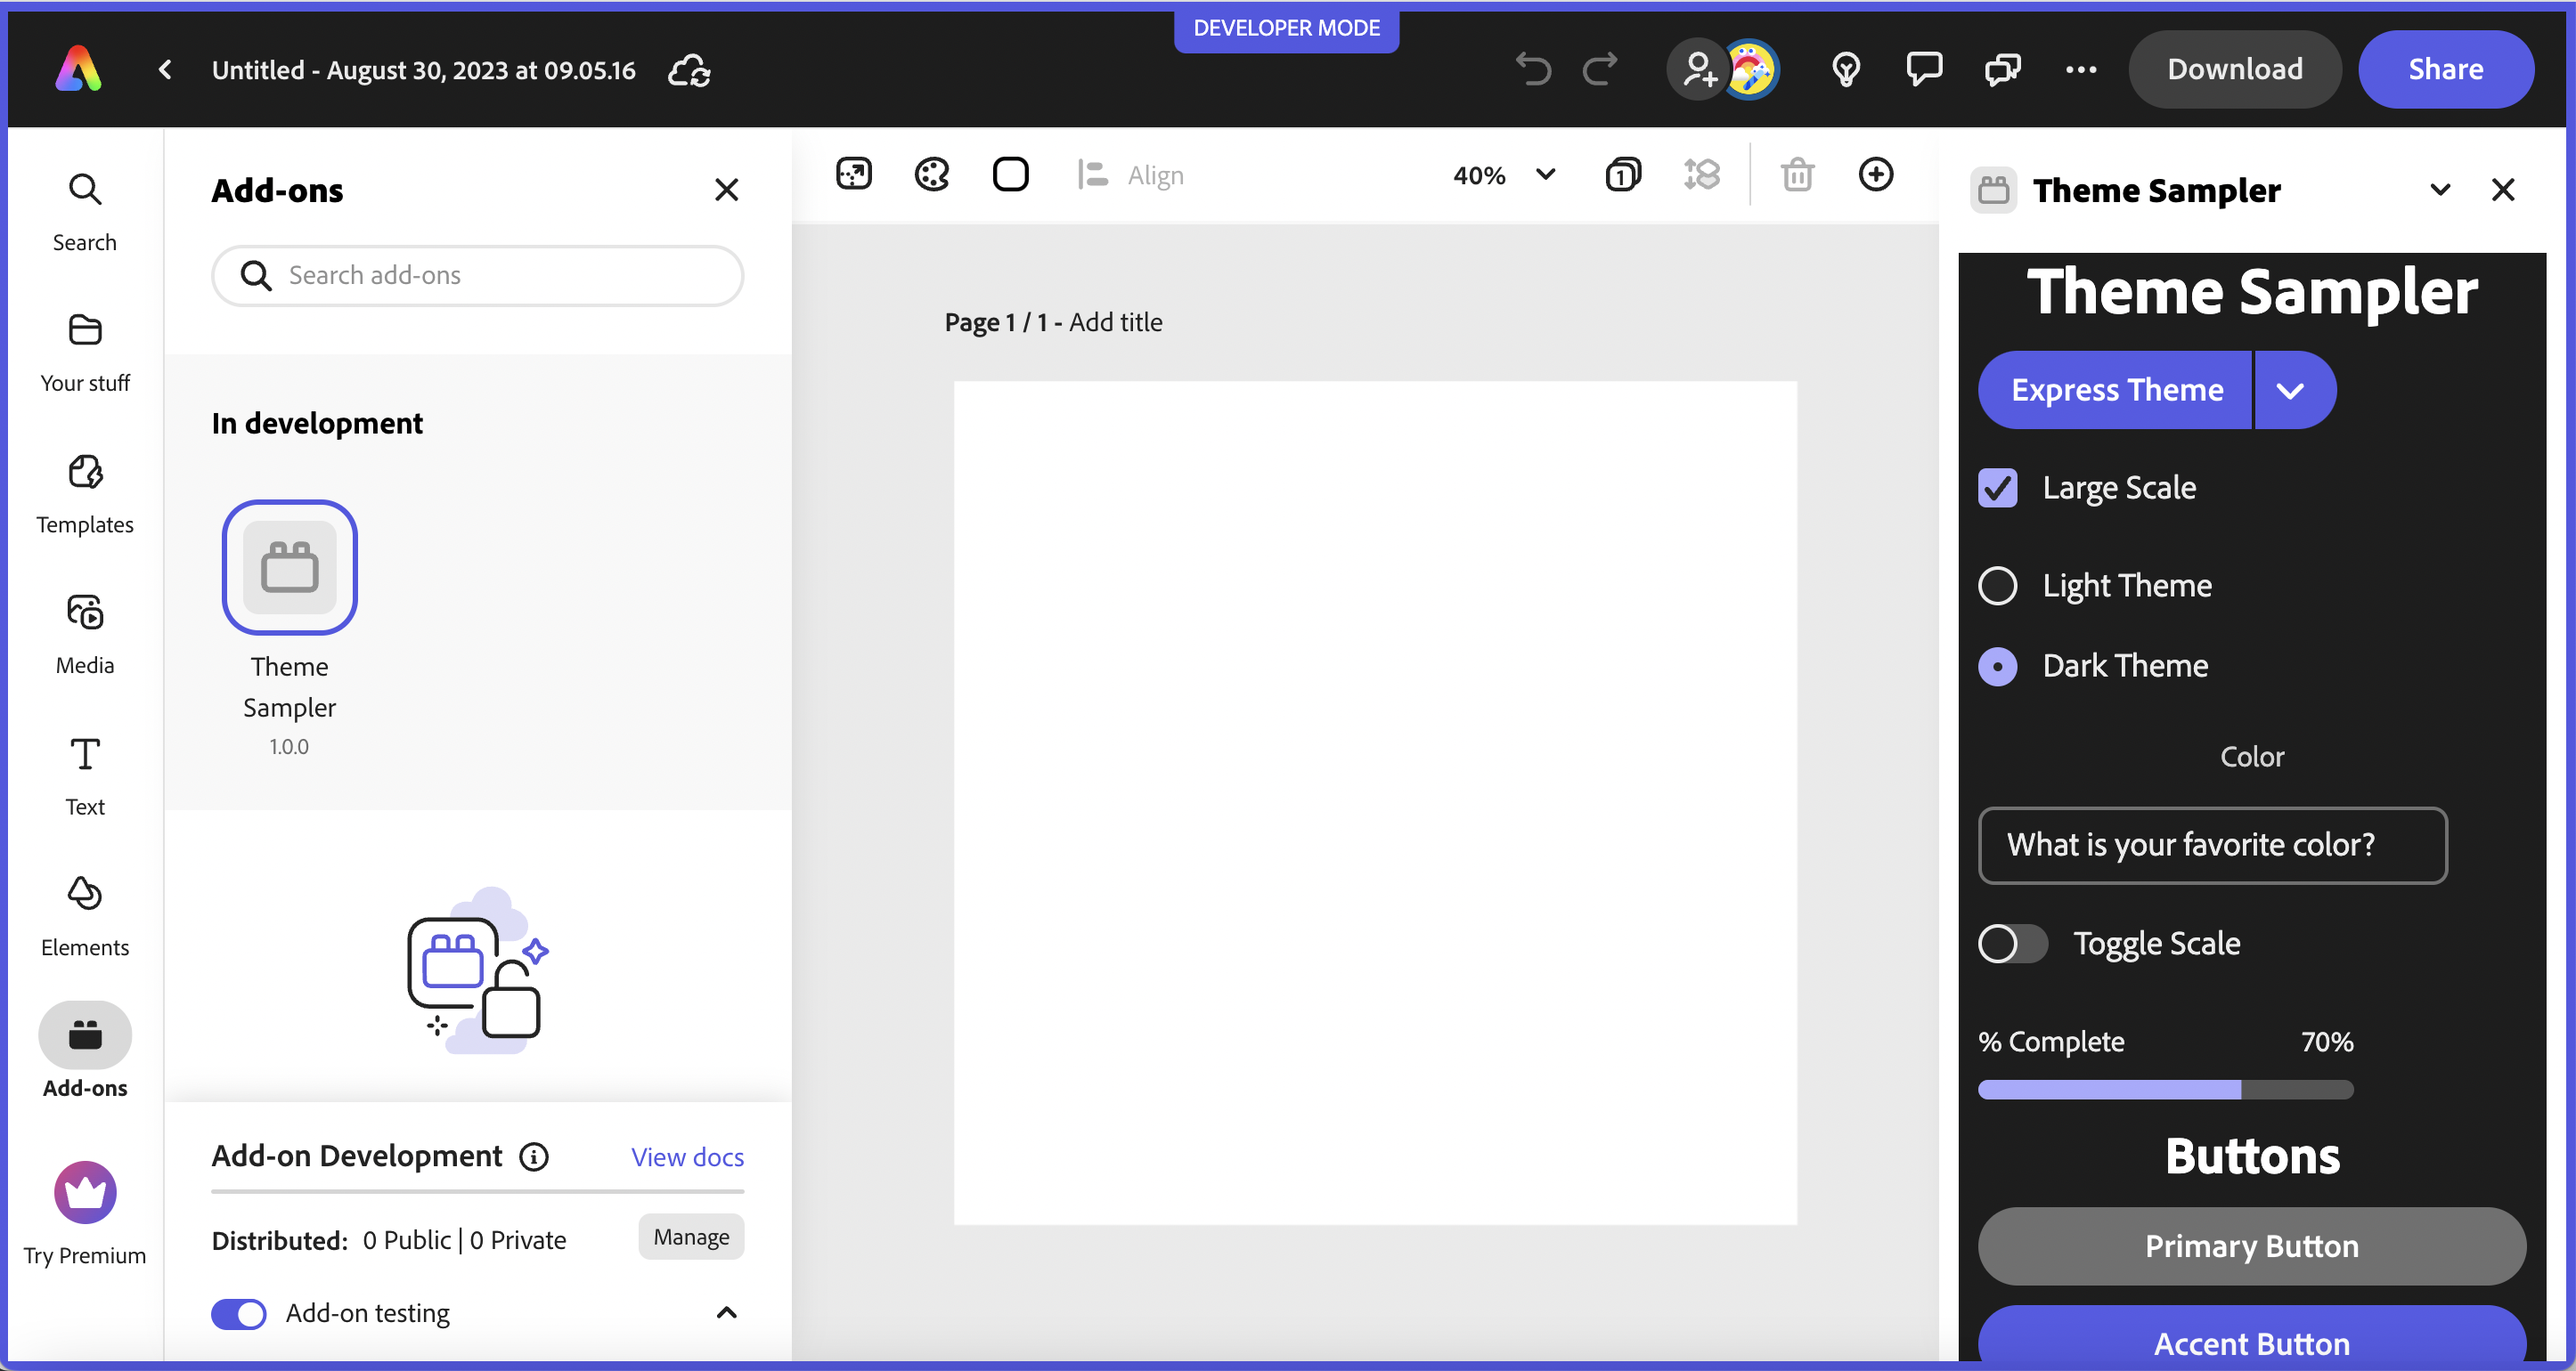
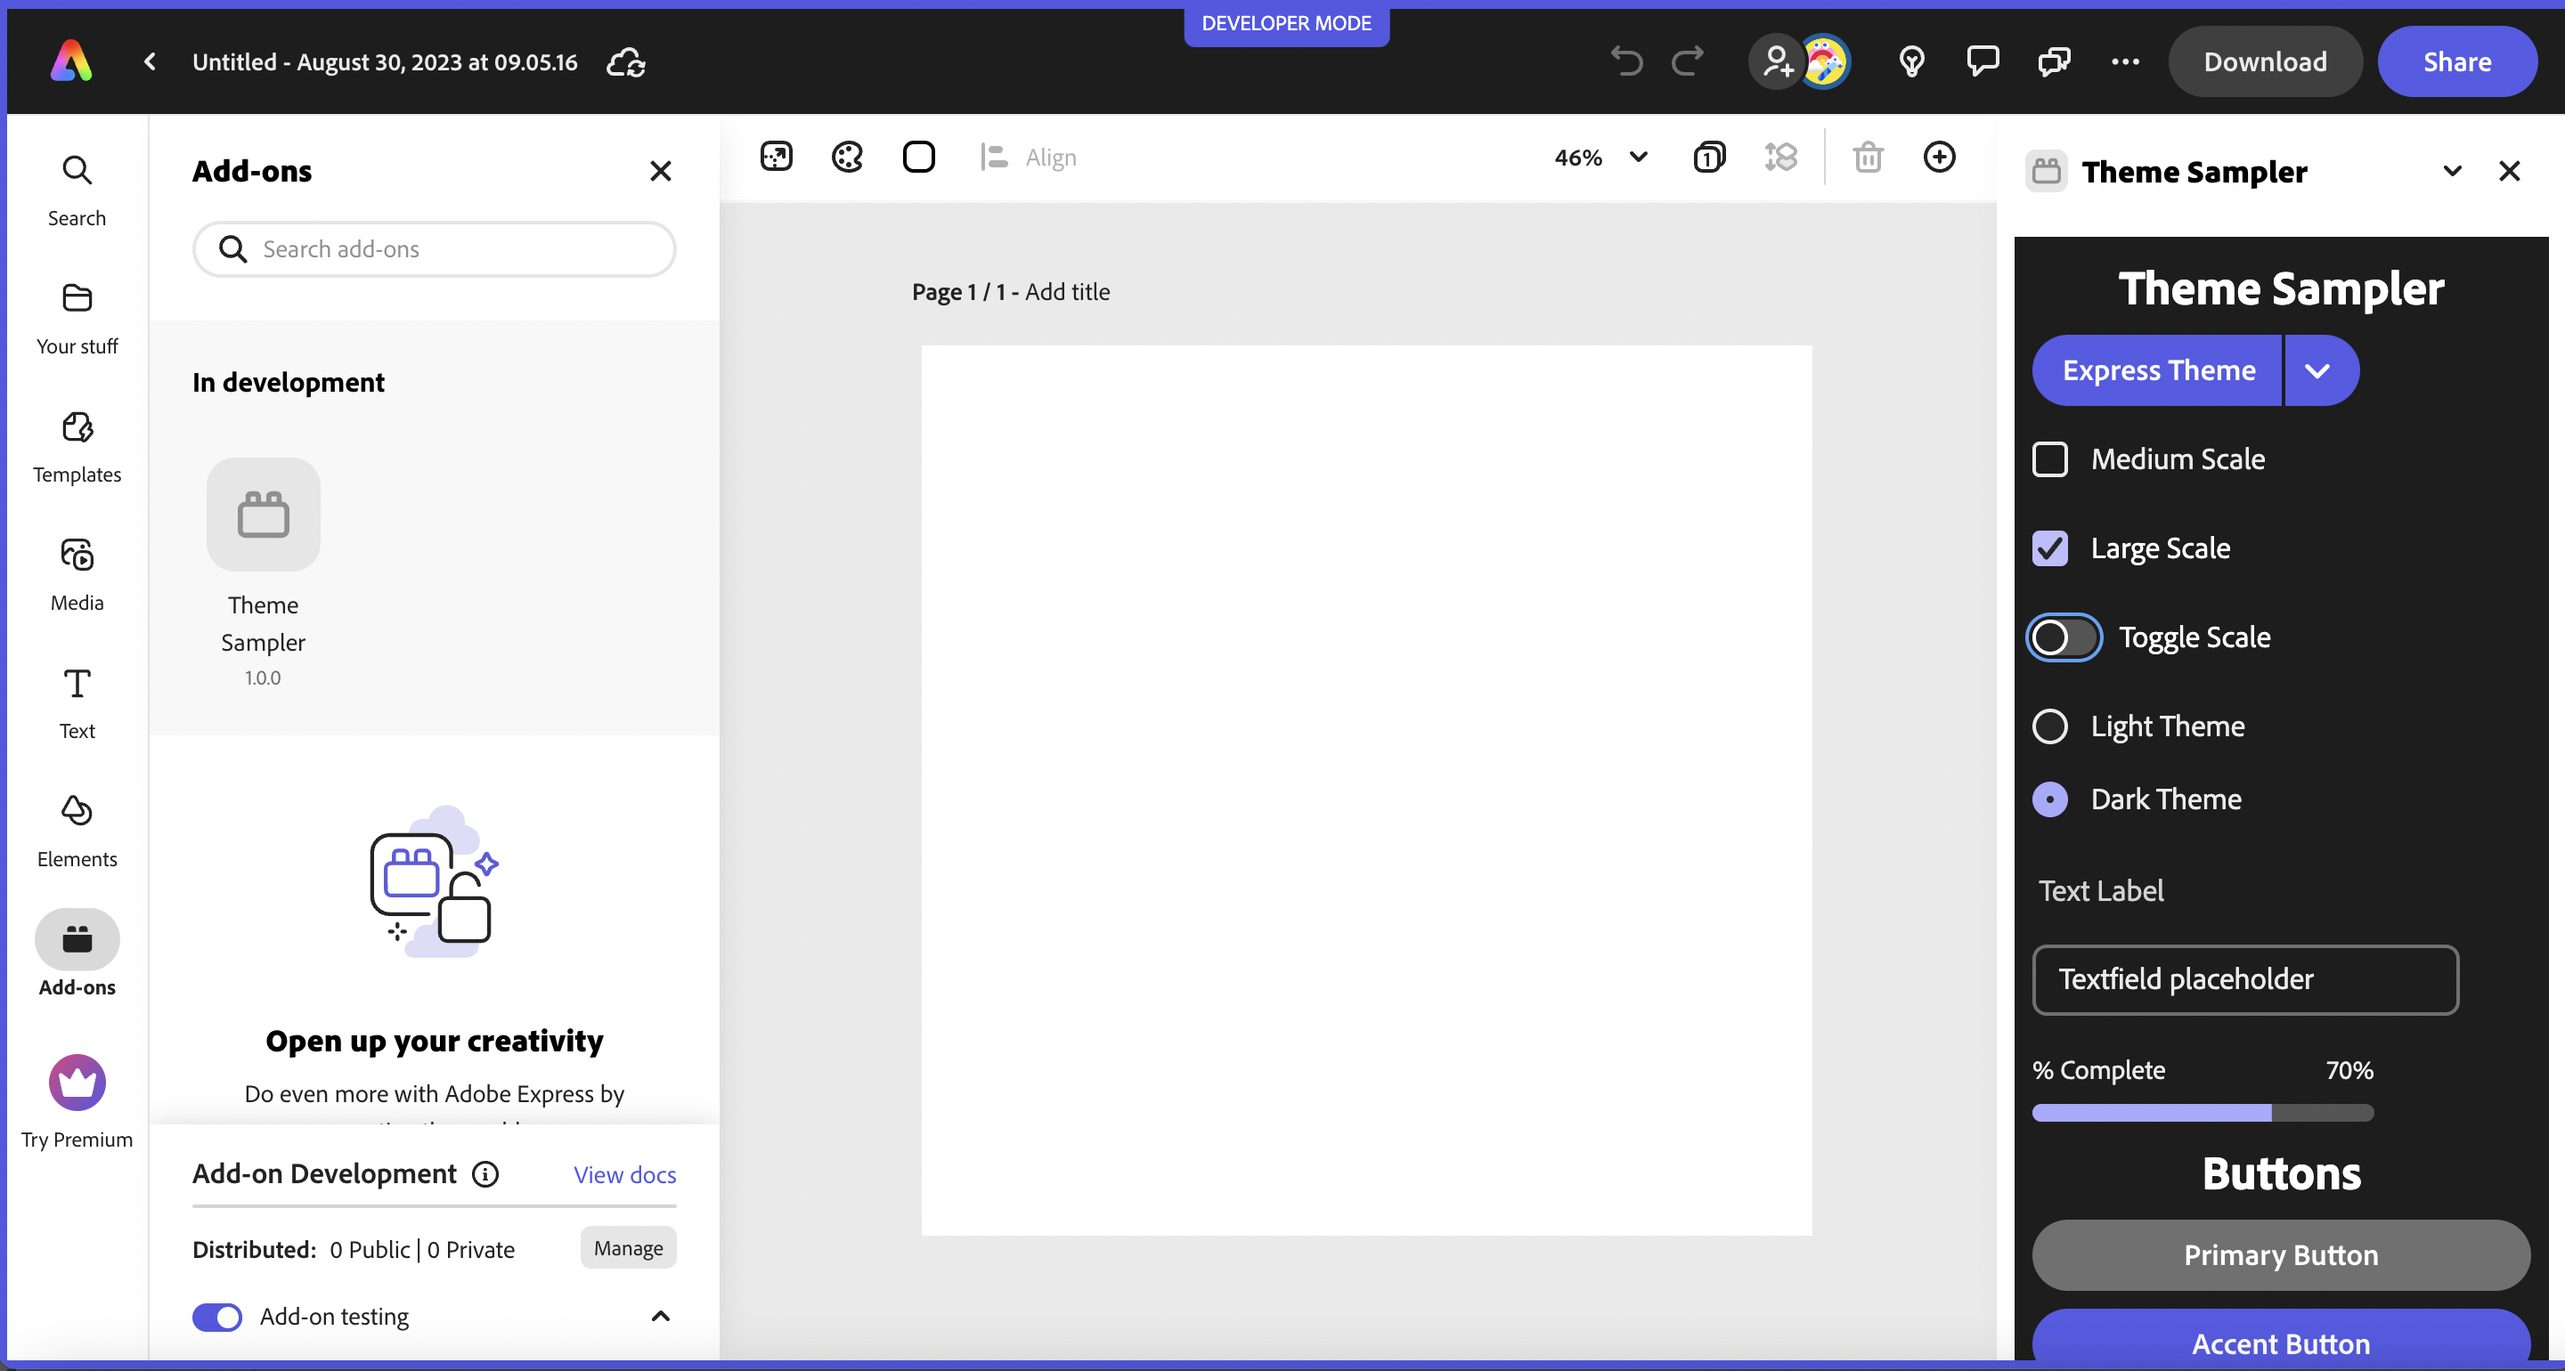
Updated screenshots, readme

diff --git a/contributed/swc-react-theme-sampler/src/components/App.jsx b/contributed/swc-react-theme-sampler/src/components/App.jsx
@@ -96,7 +96,7 @@ const App = ({ addOnSdk}) => {
                     <Radio emphasized value="light">Light Theme</Radio>
                     <Radio emphasized value="dark">Dark Theme</Radio>                
                 </RadioGroup>                                
-                <FieldLabel for="txt" side-aligned="start" size="l" style={{width: "100px"}}>Textfield Label</FieldLabel>
+                <FieldLabel for="txt" side-aligned="start" size="l" style={{width: "90px"}}>Text Label</FieldLabel>
                 <Textfield id="txt" placeholder="Textfield placeholder"></Textfield>                                                            
                 <ProgressBar label="% Complete" progress="70"></ProgressBar>
                 

diff --git a/contributed/swc-react-theme-sampler/README.md b/contributed/swc-react-theme-sampler/README.md
@@ -22,12 +22,15 @@ and use it with:
 </Button>
 ```
 
-You can find the related Spectrum Web Component `import` statement you need by referring to the Spectrum Web Component itself (ie: [Button](https://opensource.adobe.com/spectrum-web-components/components/button/).
+You can find the related Spectrum Web Component `import` statement you need by referring to the Spectrum Web Component itself (ie: [Button](https://opensource.adobe.com/spectrum-web-components/components/button/)).
 
 ### Theme Note
 Currently Express only supports the light theme, but a dark theme will be coming in the future so you should be considering that when designing your add-on.
 
+#### Light theme - medium scale screenshot
 ![light theme screenshot](./light-theme.png)
+
+#### Dark theme - large scale screenshot
 ![dark theme screenshot](./dark-theme-large.png)
 
 ## Tools
